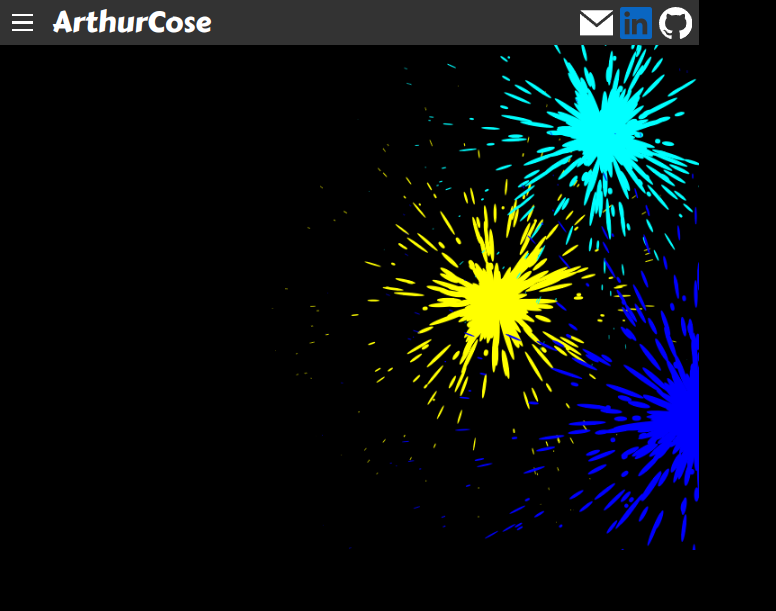
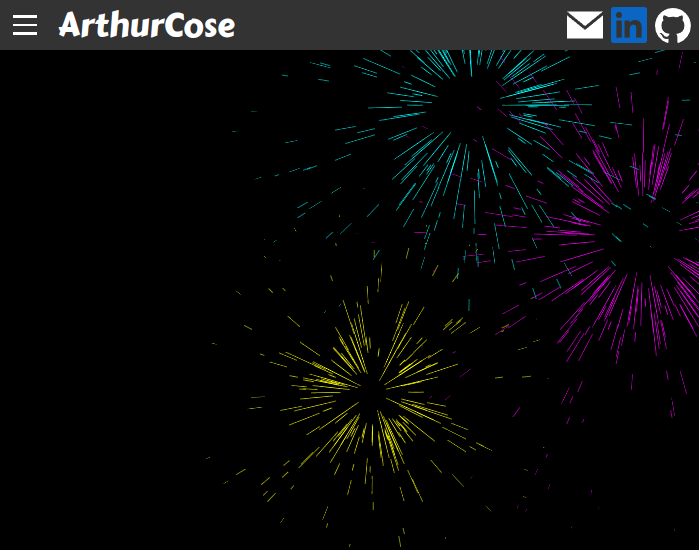
Make splatter thinner

diff --git a/src/components/splatter.tsx b/src/components/splatter.tsx
@@ -3,9 +3,17 @@ import styles from "@/styles/Splatter.module.css";
 
 const CANVAS_W = 600;
 const CANVAS_H = 800;
+
+// splats
+const REL_RANGE_MIN_CUTOFF = 1 / 6;
 const MIN_RANGE = 100;
 const MAX_RANGE = 500;
-const MAX_RANGE_BLOT_COUNT = 750;
+const MAX_RANGE_BLOT_COUNT = 500;
+
+// blots
+const HALF_MAX_BLOT_WIDTH = 0.5;
+const BLOT_HEIGHT_REL_MIN = 8;
+const BLOT_HEIGHT_REL_MAX = 80;
 
 export default function Splatter() {
   const ref = useRef<HTMLCanvasElement>(null);
@@ -63,21 +71,25 @@ function splat(
   splatX: number,
   splatY: number,
   color: string,
-  range: number
+  rangeMax: number
 ) {
   ctx.save();
   ctx.translate(splatX, splatY);
   ctx.fillStyle = color;
 
-  const HALF_MAX_BLOT_WIDTH = 4;
-  const blotCount = Math.floor((range / MAX_RANGE) * MAX_RANGE_BLOT_COUNT);
+  const blotCount = Math.floor((rangeMax / MAX_RANGE) * MAX_RANGE_BLOT_COUNT);
+  const rangeMin = rangeMax * REL_RANGE_MIN_CUTOFF;
 
   for (let i = 0; i < blotCount; i++) {
-    const distance = Math.random() ** 2 * range;
+    const distance = lerp(rangeMin, rangeMax, Math.random() ** 2);
 
-    const normalizedDistance = distance / range;
+    const normalizedDistance = distance / rangeMax;
     const halfWidth = (1 - normalizedDistance) ** 2 * HALF_MAX_BLOT_WIDTH;
-    const halfHeight = lerp(halfWidth, halfWidth * 10, Math.random());
+    const halfHeight = lerp(
+      halfWidth * BLOT_HEIGHT_REL_MIN,
+      halfWidth * BLOT_HEIGHT_REL_MAX,
+      Math.random()
+    );
 
     ctx.rotate(Math.random() * Math.PI * 2);
     ctx.beginPath();
